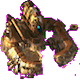
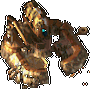
Changed fucsia images for black ones. Added harvester sprites

diff --git a/commons/Sprites.h b/commons/Sprites.h
@@ -24,6 +24,16 @@ typedef enum Sprites {
     TRIKE_SPRITE_LEFT = 16,
     TRIKE_SPRITE_LEFT_UP = 17,
 
+    // Harvester unit sprites
+    HARVESTER_SPRITE_UP = 18,
+    HARVESTER_SPRITE_UP_RIGHT = 19,
+    HARVESTER_SPRITE_RIGHT = 20,
+    HARVESTER_SPRITE_RIGHT_DOWN = 21,
+    HARVESTER_SPRITE_DOWN = 22,
+    HARVESTER_SPRITE_DOWN_LEFT = 23,
+    HARVESTER_SPRITE_LEFT = 24,
+    HARVESTER_SPRITE_LEFT_UP = 25,
+
     // Light infantry sprites (TBD)
     LIGHT_INFANTRY_UP = 18,
 
